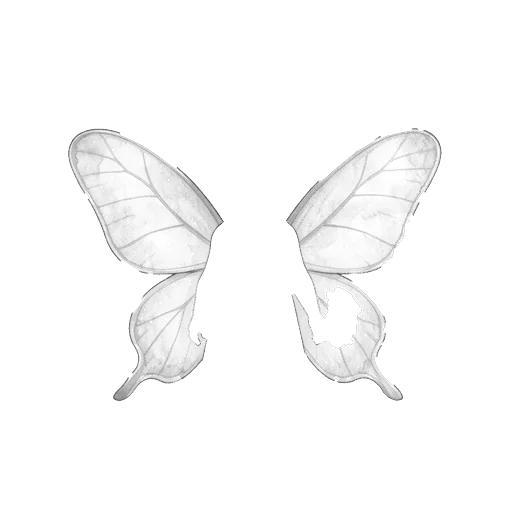
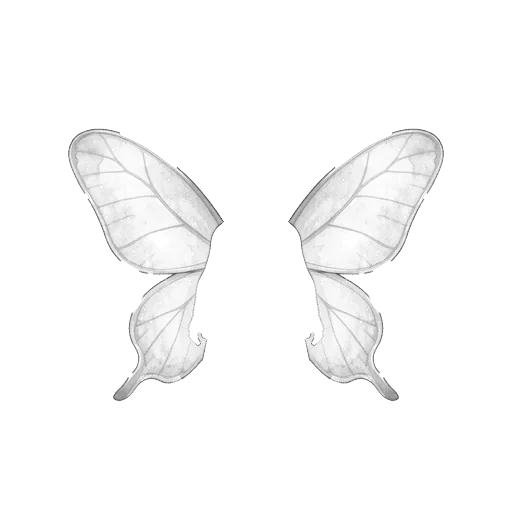
1.28: Fairy art fixes (bow, tee, butterfly wings), eye-area skin recolor fix, cache-busting art URLs
Claude-Session: https://claude.ai/code/session_015s1LPnSwsxh7JwWg6k3TQT

diff --git a/index.html b/index.html
@@ -1948,7 +1948,7 @@ addEventListener("resize",()=>requestAnimationFrame(fitHelp));
    "## 1.0: Title" starts a release; "### For everyone" / "### For grown-ups" / any other "###" section follow.
    Grown-up sections ("For grown-ups", "How long it took…") are hidden from the kids.
    Bump APP_VERSION together with a new RELEASES.md entry. */
-const APP_VERSION="1.27";
+const APP_VERSION="1.28";
 const WN={rel:null,loading:null};
 function wnGrownOnly(h){return /grown/i.test(h)}
 function wnParse(md){
@@ -11175,7 +11175,7 @@ function faLoadList(have){
   for(const n of [...FA_FAIRY,...FA_FLOWER,...FA_FX,...FA_LATER]){ if(!have(n)) continue;
     const im=new Image(); im.decoding="async";
     im.onload=()=>{FAIRYART.ok[n]=true;faChanged()}; im.onerror=()=>{};
-    im.src=`art/fairy/${n}.webp`; FAIRYART.imgs[n]=im;
+    im.src=`art/fairy/${n}.webp?v=${APP_VERSION}`; FAIRYART.imgs[n]=im; // version in the URL so fixed art isn't stuck in the iPad's cache
   }
 }
 const faHas=(...names)=>names.every(n=>FAIRYART.ok[n]);
@@ -11211,7 +11211,8 @@ function faBase(skin,eye){
   const d=g.getImageData(0,0,512,512),p=d.data,S=hex2rgb(FY.skins[skin]),M=[239,217,196],E=hex2rgb(FY.eyes[eye][0]);
   // the whole base is skin except the eyes (the slip underneath is always covered by clothes): scale each channel
   for(let y=0;y<512;y++) for(let x=0;x<512;x++){ const o=(y*512+x)*4; if(p[o+3]<10) continue;
-    if(FA_EYES.some(([ex,ey])=>Math.abs(x-ex)<8&&Math.abs(y-ey)<6)) continue;
+    if(FA_EYES.some(([ex,ey])=>Math.abs(x-ex)<8&&Math.abs(y-ey)<6)){ // near the eyes: leave the whites, iris and pupil alone, recolor the skin
+      const r=p[o],gg=p[o+1],b=p[o+2]; if(Math.max(r,gg,b)-Math.min(r,gg,b)<28||r<150) continue}
     p[o]=Math.min(255,S[0]*p[o]/M[0]);p[o+1]=Math.min(255,S[1]*p[o+1]/M[1]);p[o+2]=Math.min(255,S[2]*p[o+2]/M[2])}
   for(const [ex,ey] of FA_EYES) for(let y=ey-5;y<=ey+5;y++) for(let x=ex-5;x<=ex+5;x++){
     const dd=Math.hypot(x-ex,y-ey); if(dd>4.4||dd<1.4) continue; const o=(y*512+x)*4;

diff --git a/RELEASES.md b/RELEASES.md
@@ -4,6 +4,19 @@ Newest first. Each release has kid-friendly notes (shown to everyone in the game
 
 ---
 
+## 1.28: Prettier bows and tees 🎀
+**November 1, 2026**
+
+### For everyone
+- 🎀 **Big bow fixed:** the bow is now a neat bow on top of your fairy's head.
+- 👕 **T-shirt and butterfly wings fixed:** no more missing bits.
+- 🙂 **Eyes look right** on every skin color.
+
+### For grown-ups
+- Repaired three generated art files: `crown_bow` (now just the two loops and knot), `top_tee` (filled a notch at the hem) and `wings_butterfly` (right pair mirrored from the intact left pair). Fixed a skin-recolor bug that left a light box around the eyes on darker skin tones. Fairy art URLs now carry the game version so fixed files replace cached ones.
+
+---
+
 ## 1.27: Boy fairies coming soon 👦
 **November 1, 2026**
 
